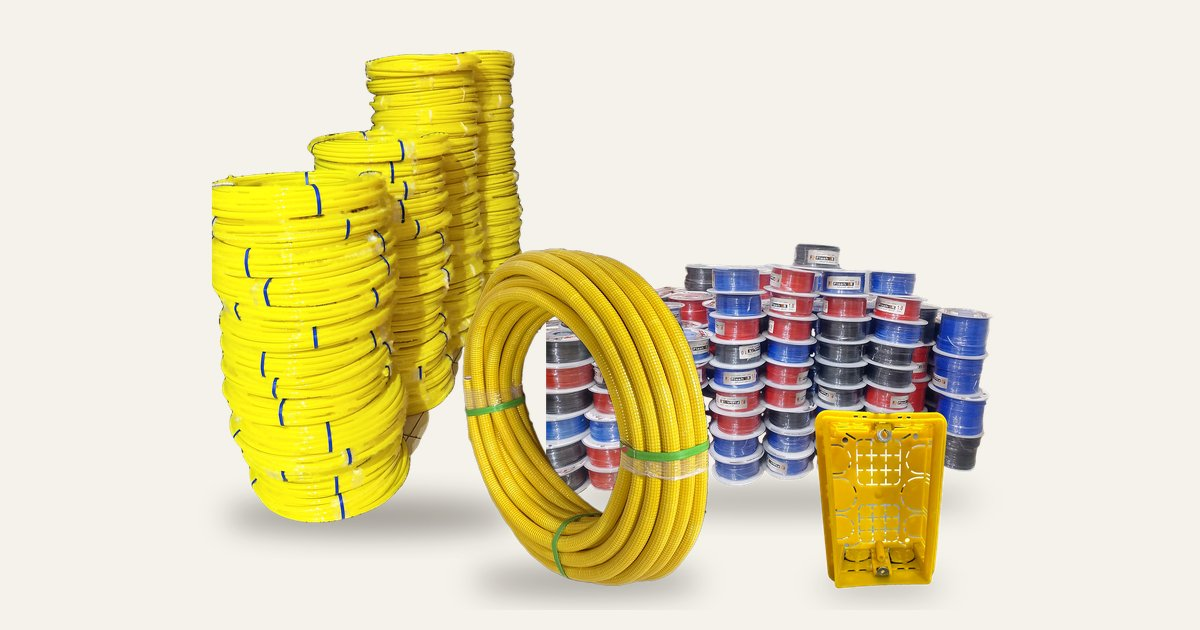
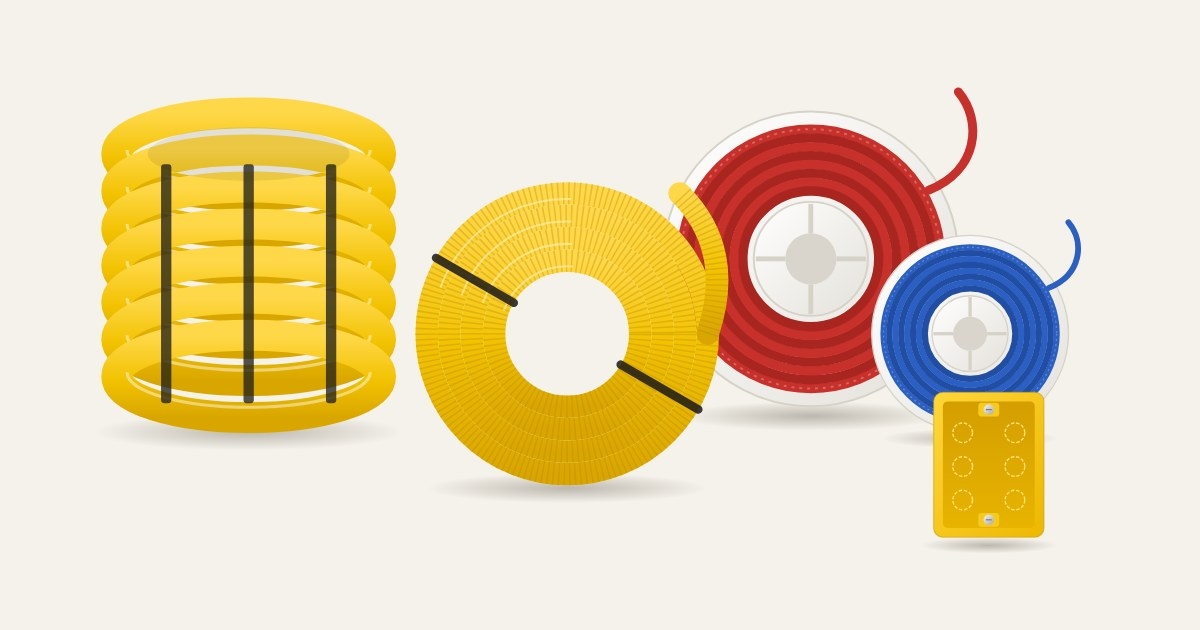
الصور: شيل صور المنتجات واستبدالها برسومات مؤقتة نضيفة لحد ما تيجي صور احترافية
Claude-Session: https://claude.ai/code/session_013NXf52q5qVjaC9gEx3peAB

diff --git a/index.html b/index.html
@@ -16,7 +16,7 @@
 <link rel="icon" type="image/svg+xml" href="assets/logo.svg">
 <link rel="icon" type="image/png" href="assets/icon-192.png">
 <link rel="apple-touch-icon" href="assets/apple-touch-icon.png">
-<link rel="preload" as="image" href="assets/img/hero.webp">
+<link rel="preload" as="image" href="assets/img/hero.svg">
 <link rel="stylesheet" href="assets/fonts/fonts.css">
 <style>
 :root{
@@ -103,8 +103,8 @@ h2{font-size:clamp(30px,3.6vw,46px);margin-top:14px}
 .stage .art img{width:100%;max-width:720px;margin-inline:auto}
 @media(min-width:1000px){
   .stage{grid-template-columns:1fr 1fr}
-  .stage .art{padding:64px 24px 26px 0}
-  .stage .art img{max-width:none;width:104%;margin-inline-start:-4%}
+  .stage .art{align-self:center;padding:40px 8px 40px 0}
+  .stage .art img{max-width:none;width:112%;margin-inline-start:-12%}
 }
 @media(max-width:999px){.stage .txt{padding-inline-end:clamp(36px,6vw,80px)}.stage .art{padding-top:0}}
 @media(max-width:600px){.stage{border-radius:28px}.stage .txt{padding:34px 24px 8px}.stage .ctas .btn{flex:1}}
@@ -131,8 +131,7 @@ h2{font-size:clamp(30px,3.6vw,46px);margin-top:14px}
 .prod+.prod{border-top:1px solid var(--line)}
 @media(min-width:900px){.prod{grid-template-columns:1.05fr .95fr}.prod.flip .ph{order:2}}
 .ph{position:relative;border-radius:30px;background:radial-gradient(110% 85% at 50% 35%,#FFFFFF 0%,var(--surface) 72%);border:1px solid var(--line);aspect-ratio:5/4;display:flex;align-items:center;justify-content:center;padding:clamp(26px,4vw,52px);overflow:hidden}
-.ph::after{content:"";position:absolute;inset-inline:16%;bottom:8%;height:7%;border-radius:50%;background:radial-gradient(closest-side,rgba(40,30,15,.2),rgba(40,30,15,0))}
-.ph img{position:relative;z-index:1;max-height:100%;max-width:100%;width:auto;object-fit:contain;transition:transform .9s var(--ease)}
+.ph img{position:relative;z-index:1;height:100%;max-width:100%;width:auto;object-fit:contain;transition:transform .9s var(--ease)}
 .prod:hover .ph img{transform:scale(1.03)}
 /* صورة الكابلات مقصوصة من ناحية: تلزق في حرف الكارت فتبان مقصودة */
 .ph.bleed{justify-content:flex-end;padding-inline-end:0}
@@ -253,7 +252,7 @@ footer{border-top:1px solid var(--line);background:var(--surface)}
           </div>
         </div>
         <div class="art rv d1">
-          <img src="assets/img/hero.webp" width="1500" height="1046" alt="منتجات فلاش أون: مواسير PVC، خراطيم كهربائية، كابلات، وعلبة ماجيك">
+          <img src="assets/img/hero.svg" width="1110" height="560" alt="منتجات فلاش أون: مواسير PVC، خراطيم كهربائية، كابلات، وعلبة ماجيك">
         </div>
       </div>
 
@@ -275,7 +274,7 @@ footer{border-top:1px solid var(--line);background:var(--surface)}
       </div>
 
       <article class="prod rv">
-        <div class="ph"><span class="no">01</span><img src="assets/img/hoses.webp" width="733" height="1000" loading="lazy" alt="لفة خرطوم كهرباء مموّج"></div>
+        <div class="ph"><span class="no">01</span><img src="assets/img/hoses.svg" width="400" height="400" loading="lazy" alt="لفة خرطوم كهرباء مموّج"></div>
         <div>
           <span class="eyebrow">تأسيس</span>
           <h3>خراطيم كهربائية</h3>
@@ -290,7 +289,7 @@ footer{border-top:1px solid var(--line);background:var(--surface)}
       </article>
 
       <article class="prod flip rv">
-        <div class="ph"><span class="no">02</span><img src="assets/img/pvc-yellow.webp" width="665" height="1000" loading="lazy" alt="لفات مواسير PVC"></div>
+        <div class="ph"><span class="no">02</span><img src="assets/img/pvc.svg" width="310" height="360" loading="lazy" alt="لفات مواسير PVC"></div>
         <div>
           <span class="eyebrow">تأسيس</span>
           <h3>مواسير PVC</h3>
@@ -305,7 +304,7 @@ footer{border-top:1px solid var(--line);background:var(--surface)}
       </article>
 
       <article class="prod rv">
-        <div class="ph"><span class="no">03</span><img src="assets/img/magic.webp" width="744" height="1000" loading="lazy" alt="علبة ماجيك"></div>
+        <div class="ph"><span class="no">03</span><img src="assets/img/magic.svg" width="260" height="330" loading="lazy" alt="علبة ماجيك"></div>
         <div>
           <span class="eyebrow">تشطيب</span>
           <h3>علب ماجيك</h3>
@@ -319,7 +318,7 @@ footer{border-top:1px solid var(--line);background:var(--surface)}
       </article>
 
       <article class="prod flip rv" id="cables">
-        <div class="ph bleed"><span class="no">04</span><img src="assets/img/cables.webp" width="1000" height="582" loading="lazy" alt="كابلات فلاش أون الكهربائية"></div>
+        <div class="ph"><span class="no">04</span><img src="assets/img/cables.svg" width="560" height="430" loading="lazy" alt="كابلات فلاش أون الكهربائية"></div>
         <div>
           <span class="eyebrow">كابلات</span>
           <h3>الكابلات الكهربائية</h3>
